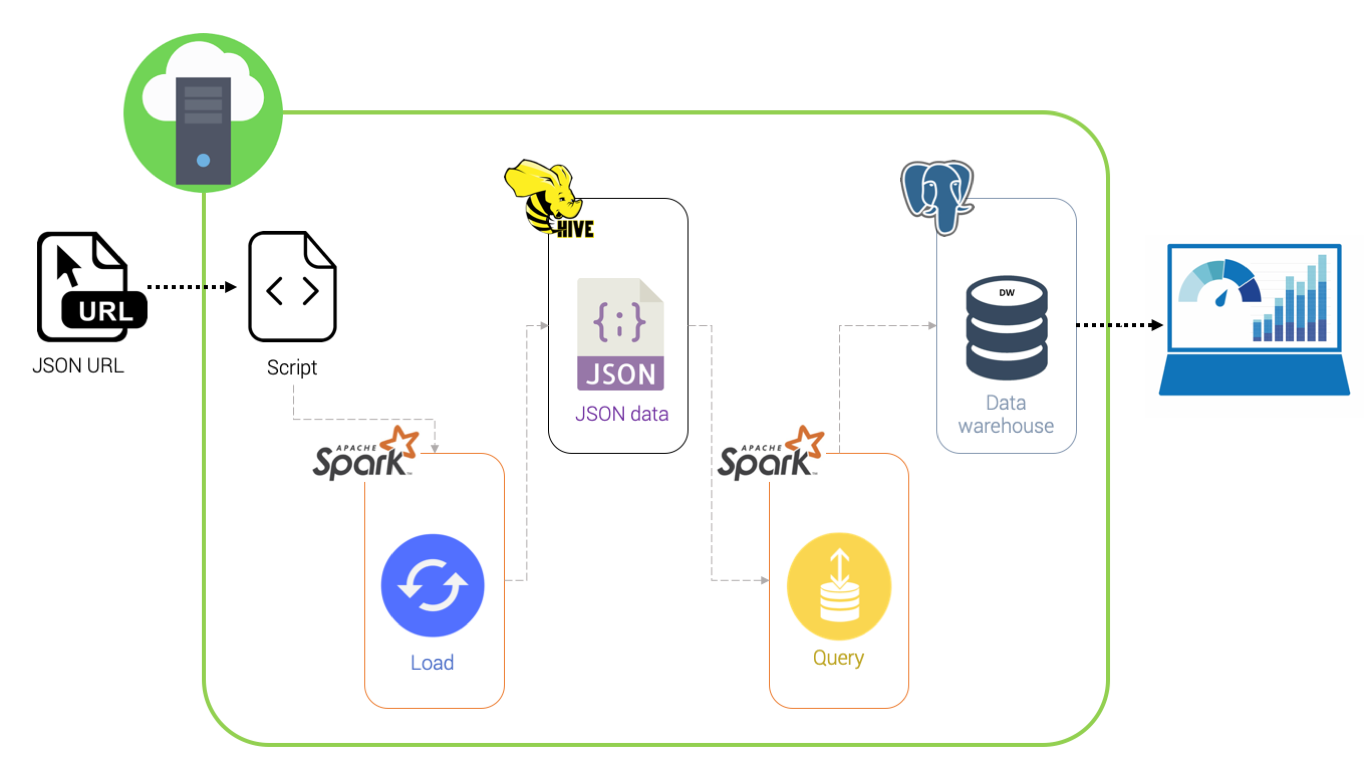
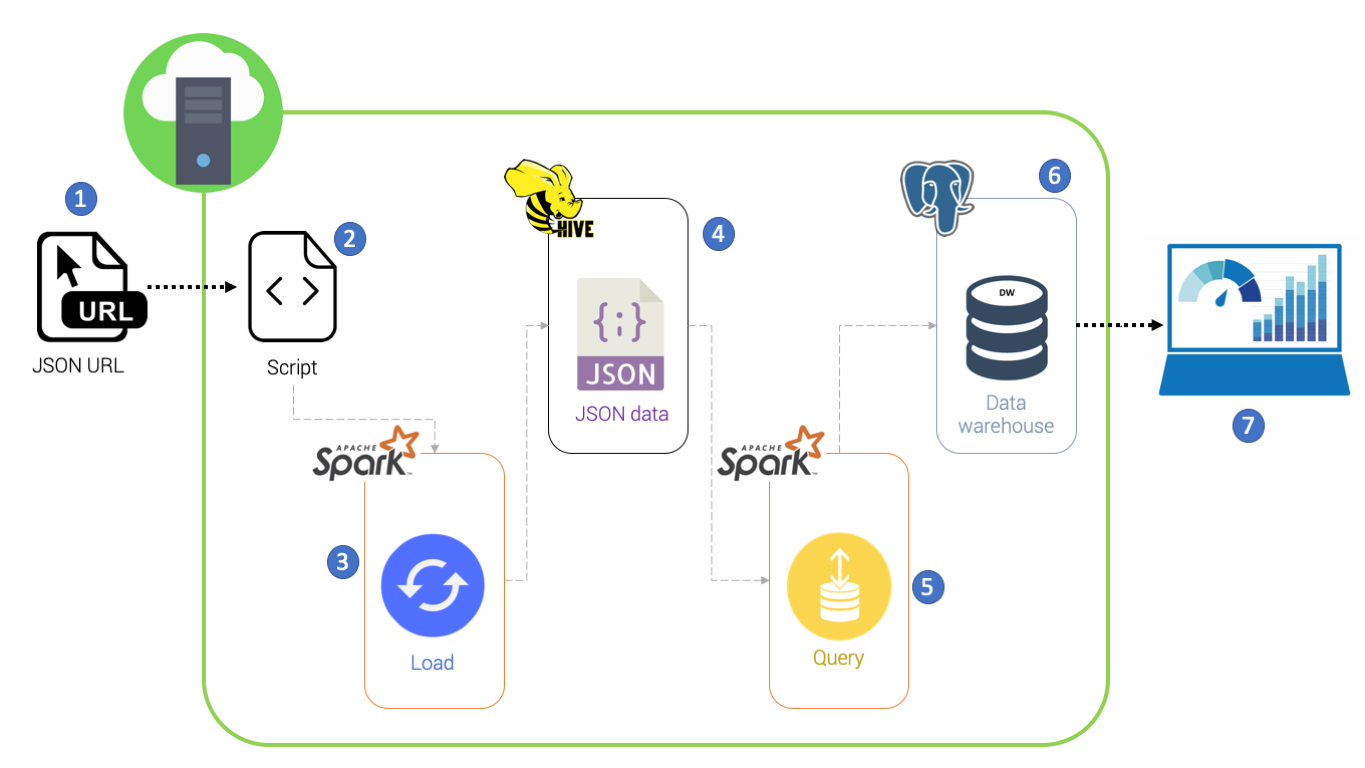
002 - Edited: Diagram.

diff --git a/README.md b/README.md
@@ -4,7 +4,7 @@ Extract the earthquakes from Geo JSON url using Apache Spark Python API.
 > ### Instructions:
 - Read the JSON URL and return the coordinates, shape type, place and magnitude of earthquakes greater 
 than 1.0 using PySpark.
-- Build an ETL tool.
+- Build an ETL/ELT tool.
 - Visualise output data.
 
 > ### Technical Specs:
@@ -15,7 +15,16 @@ than 1.0 using PySpark.
 
 > ### High architecture level design:
 
-#### The proposed architecture approach:
+The proposed architecture approach:
+
+1 - JSON URL.
+2 - The script in this case Python Script will load the RAW JSON data into the local environment.
+3 - Apache Spark will load into HDFS.
+4 - Hive will be the metastore engine on top of HDFS to query the master data.
+5 - Apache Spark will perform the transformation according to the business requirements and load it into our data warehouse.
+6 - The data warehouse(DWH) will have the data ready to be consumed by the BI's or analytics team.
+7 - The data visualisation tool will consume the data from our DWH ready to build sexy dashboards and reports.
+
  
 ![bi](https://github.com/arturosolutions/earthquakes_pyspark/blob/master/images/bi.png)
 
